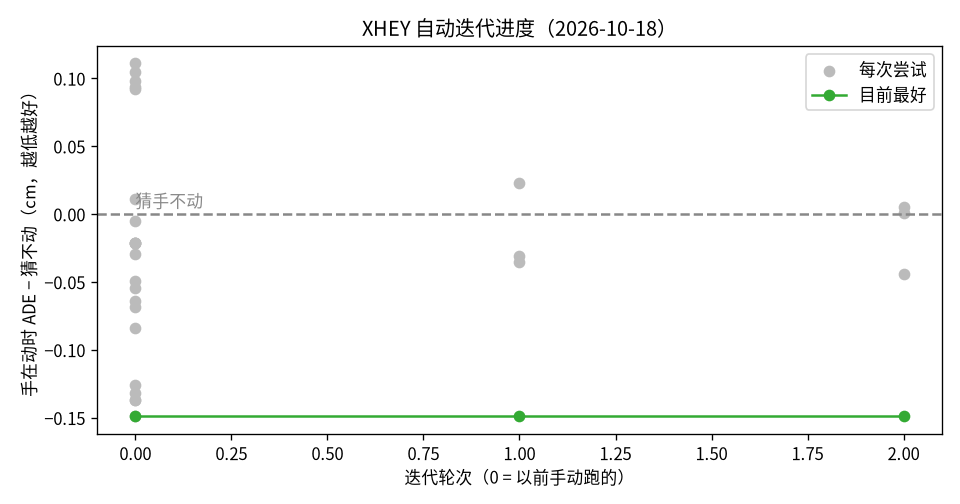
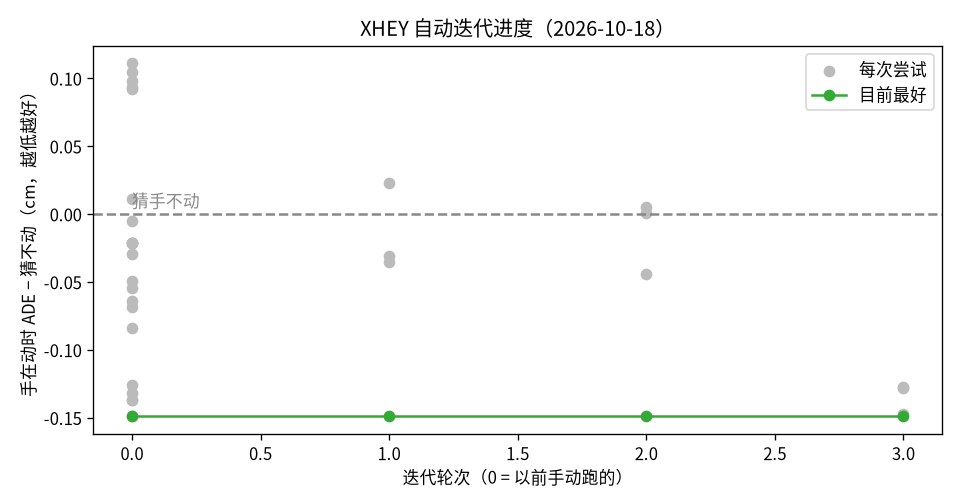
XHEY 自动迭代第 3 轮结果入账（手在动 vs 零动作：c0 −0.127 / c1 −0.147 / c2 −0.128 cm，均优于零动作），第 4 轮已提交 Kaggle

diff --git a/tests/test_xhey_auto_iter.py b/tests/test_xhey_auto_iter.py
@@ -208,25 +208,25 @@ class MirrorAndIngest(unittest.TestCase):
 class CommittedState(unittest.TestCase):
     def test_iteration_2_ingested(self):
         state = json.loads((ROOT / "experiments" / "auto_state.json").read_text(encoding="utf-8"))
-        self.assertEqual(state["last_iteration"], 2)
+        self.assertEqual(state["last_iteration"], 3)
         self.assertEqual(state["last_kernel"], "justinz2010/xhey-auto-iter")
         running = state["running"]
-        self.assertEqual(running["iteration"], 3)
+        self.assertEqual(running["iteration"], 4)
         self.assertEqual(running["kernel"], "justinz2010/xhey-auto-iter")
-        self.assertEqual(running["version"], 3)
-        self.assertEqual(running["launched"], "2026-10-18 09:22")
+        self.assertEqual(running["version"], 4)
+        self.assertEqual(running["launched"], "2026-10-18 21:23")
         self.assertEqual(len(running["candidates"]), 3)
         ids = {json.loads(l)["id"] for l in (ROOT / "experiments" / "ledger.jsonl").read_text(encoding="utf-8").splitlines() if l.strip()}
-        self.assertTrue({"iter002_c0", "iter002_c1", "iter002_c2", "C1", "C8"} <= ids)
+        self.assertTrue({"iter003_c0", "iter003_c1", "iter003_c2", "C1", "C8"} <= ids)
 
     def test_c9_done_worse_and_c9b_already_running(self):
         state = json.loads((ROOT / "experiments" / "auto_state.json").read_text(encoding="utf-8"))
         self.assertIsNone(state["queue_running"])
         running = state["running"]
-        self.assertEqual(running["iteration"], 3)
+        self.assertEqual(running["iteration"], 4)
         self.assertEqual(running["kernel"], "justinz2010/xhey-auto-iter")
-        self.assertEqual(running["version"], 3)
-        self.assertEqual(running["launched"], "2026-10-18 09:22")
+        self.assertEqual(running["version"], 4)
+        self.assertEqual(running["launched"], "2026-10-18 21:23")
         self.assertNotIn("queue_running_also", state)
         q = json.loads((ROOT / "docs" / "xhey" / "queue.json").read_text(encoding="utf-8"))
         ids = [i["id"] for i in q["queue"]]
@@ -412,6 +412,42 @@ class CommittedState(unittest.TestCase):
         self.assertEqual(c14row["moving_ade_cm"], 12.534017037982933)
         self.assertEqual(c14row["delta_moving_cm"], -0.14888022456818356)
         self.assertEqual(c14row["delta_moving_ci95"], [-0.15879802343330682, -0.13937611602942523])
+        self.assertEqual(ids.count("iter003_c0"), 1)
+        self.assertEqual(ids.count("iter003_c1"), 1)
+        self.assertEqual(ids.count("iter003_c2"), 1)
+        c0 = rows["iter003_c0"]
+        self.assertEqual(c0["status"], "ok")
+        self.assertEqual(c0["iteration"], 3)
+        self.assertEqual(c0["date"], "2026-10-18 21:23")
+        self.assertEqual(c0["source"], "justinz2010/xhey-auto-iter")
+        self.assertEqual(c0["config"]["mix"], "iphone+xhey_rgb+aug")
+        self.assertEqual(c0["config"]["lr_scale"], 0.5)
+        self.assertEqual(c0["config"]["aug_noise"], 0.1)
+        self.assertEqual(c0["overall_ade_cm"], 9.804309331131275)
+        self.assertEqual(c0["delta_overall_cm"], 0.02521802672375374)
+        self.assertEqual(c0["moving_ade_cm"], 12.555796291394767)
+        self.assertEqual(c0["delta_moving_cm"], -0.1271009711563525)
+        self.assertEqual(c0["delta_moving_ci95"], [-0.1377246784220152, -0.11678626264060443])
+        c1 = rows["iter003_c1"]
+        self.assertEqual(c1["status"], "ok")
+        self.assertEqual(c1["config"]["mix"], "iphone+xhey_rgb+aug")
+        self.assertEqual(c1["config"]["lr_scale"], 1.0)
+        self.assertEqual(c1["config"]["aug_noise"], 0.2)
+        self.assertEqual(c1["overall_ade_cm"], 9.752460214243373)
+        self.assertEqual(c1["delta_overall_cm"], -0.02663109016415239)
+        self.assertEqual(c1["moving_ade_cm"], 12.535582195742764)
+        self.assertEqual(c1["delta_moving_cm"], -0.1473150668083553)
+        self.assertEqual(c1["delta_moving_ci95"], [-0.15692082101939178, -0.13802075752697976])
+        c2 = rows["iter003_c2"]
+        self.assertEqual(c2["status"], "ok")
+        self.assertEqual(c2["config"]["mix"], "iphone+xphi+xhey_rgb+aug")
+        self.assertEqual(c2["config"]["lr_scale"], 0.5)
+        self.assertEqual(c2["config"]["aug_noise"], 0.2)
+        self.assertEqual(c2["overall_ade_cm"], 9.800702031797082)
+        self.assertEqual(c2["delta_overall_cm"], 0.021610727389559575)
+        self.assertEqual(c2["moving_ade_cm"], 12.554741231319873)
+        self.assertEqual(c2["delta_moving_cm"], -0.12815603123124436)
+        self.assertEqual(c2["delta_moving_ci95"], [-0.13867617152198525, -0.1179699765822357])
 
 
 def _kernel_metrics(mix, moving=-0.05):

diff --git a/docs/xhey_ledger.md b/docs/xhey_ledger.md
@@ -37,7 +37,7 @@
 
 **C14（2026-10-18）**：C14 = xPhi-Ego-100 预训练（单目 WiLoR 伪标签，假定 HFOV 90° 内参，`iphone+xphi+xhey_rgb+aug`），内核 `justinz2010/xhey-rsi-c14-xphi`（2026-10-17 21:27 提交，2026-10-18 09:22 入账）。同一次对照 C14ctl 不加 xPhi（`iphone+xhey_rgb+aug`）。xPhi 臂整体 ADE 9.750 cm，同一次对照 C14ctl 9.759 cm，zero 9.779 cm；手在动相对 zero −0.149 cm（95% 区间 [−0.159, −0.139]），对照 −0.137 cm（[−0.146, −0.129]）。这是第一份超过同一次对照的外部数据集，优势约 0.012 cm；标签是单目 WiLoR 伪标签，内参按 HFOV 90° 假定。队列结论 **done_win**。`ledger.csv` 的 status 列按镜像规则是 win_moving，只表示手在动的置信区间整段落在 0 以下；队列结论才是 done_win。图：[`experiments/report/C14/`](../experiments/report/C14/)。
 
-唯一循环驱动是 `scripts/xhey_auto_iter.py`：先收已完成的固定内核，再按 [`docs/xhey/queue.json`](xhey/queue.json) 提交就绪候选。新候选默认必须带 `--qc-filter`。C14 已入账，`queue_running` 已清空。正在占 GPU 的是自动迭代第 3 轮（`justinz2010/xhey-auto-iter` v3，2026-10-18 09:22 提交）；有内核在跑时不抢占。
+唯一循环驱动是 `scripts/xhey_auto_iter.py`：先收已完成的固定内核，再按 [`docs/xhey/queue.json`](xhey/queue.json) 提交就绪候选。新候选默认必须带 `--qc-filter`。C14 已入账，`queue_running` 已清空。自动迭代第 3 轮已入账（手在动 vs 零动作：c0 −0.127 / c1 −0.147 / c2 −0.128 cm，均优于零动作；图 [`experiments/report/iter003_c0/`](../experiments/report/iter003_c0/)、[`iter003_c1/`](../experiments/report/iter003_c1/)、[`iter003_c2/`](../experiments/report/iter003_c2/)）。正在占 GPU 的是自动迭代第 4 轮（`justinz2010/xhey-auto-iter` v4，2026-10-18 21:23 提交）；有内核在跑时不抢占。
 
 ---
 

diff --git a/experiments/report/iter003_c0/README.md b/experiments/report/iter003_c0/README.md
@@ -1,0 +1,7 @@
+# iter003_c0
+
+![](ade.png)
+![](per_clip.png)
+![](horizon.png)
+![](loss_curves.png)
+![](trajectory.png)

diff --git a/experiments/report/iter003_c1/README.md b/experiments/report/iter003_c1/README.md
@@ -1,0 +1,7 @@
+# iter003_c1
+
+![](ade.png)
+![](per_clip.png)
+![](horizon.png)
+![](loss_curves.png)
+![](trajectory.png)

diff --git a/experiments/report/iter003_c2/README.md b/experiments/report/iter003_c2/README.md
@@ -1,0 +1,7 @@
+# iter003_c2
+
+![](ade.png)
+![](per_clip.png)
+![](horizon.png)
+![](loss_curves.png)
+![](trajectory.png)
